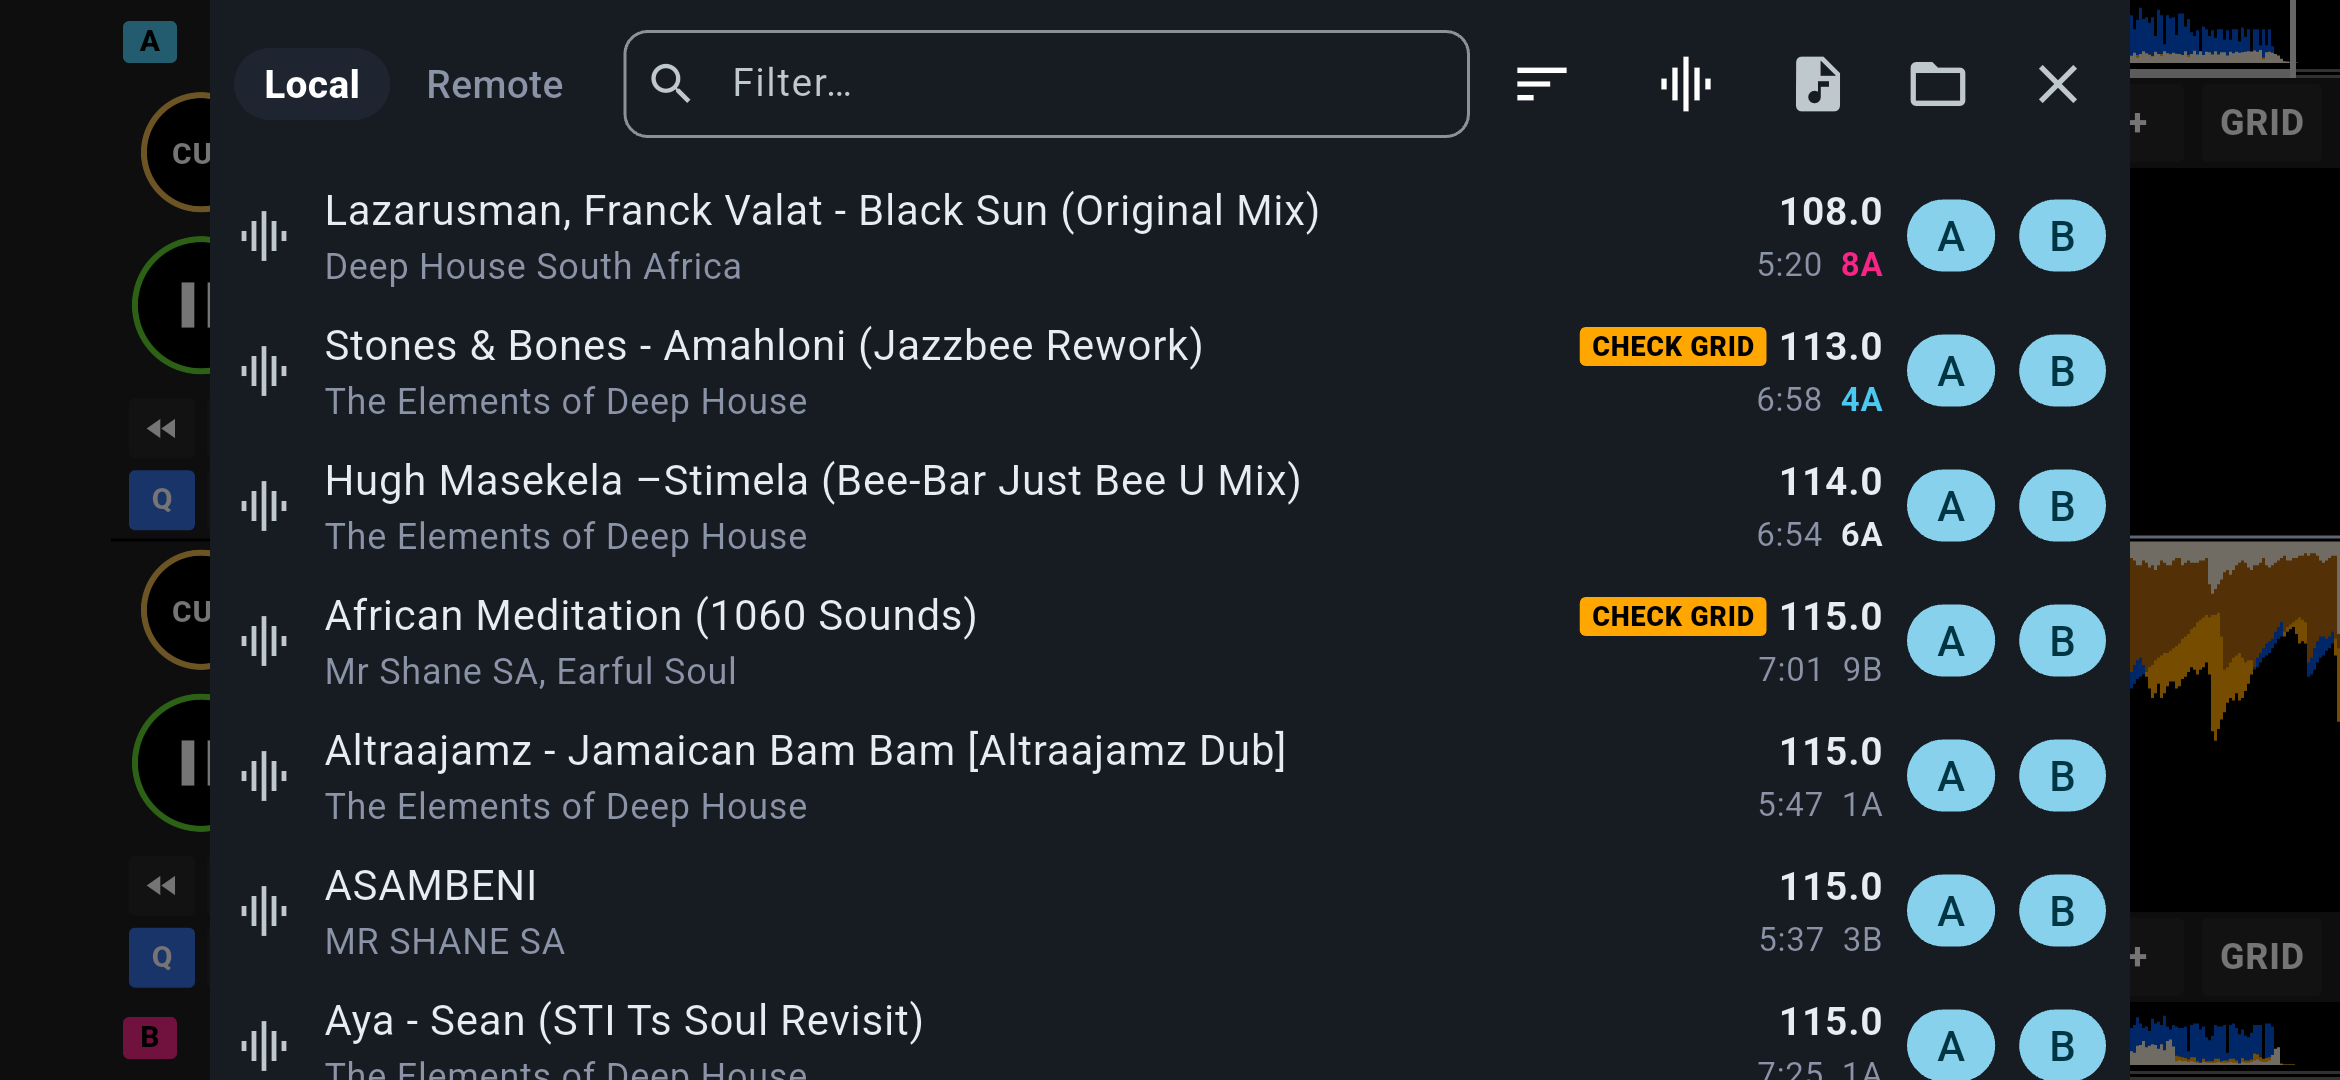
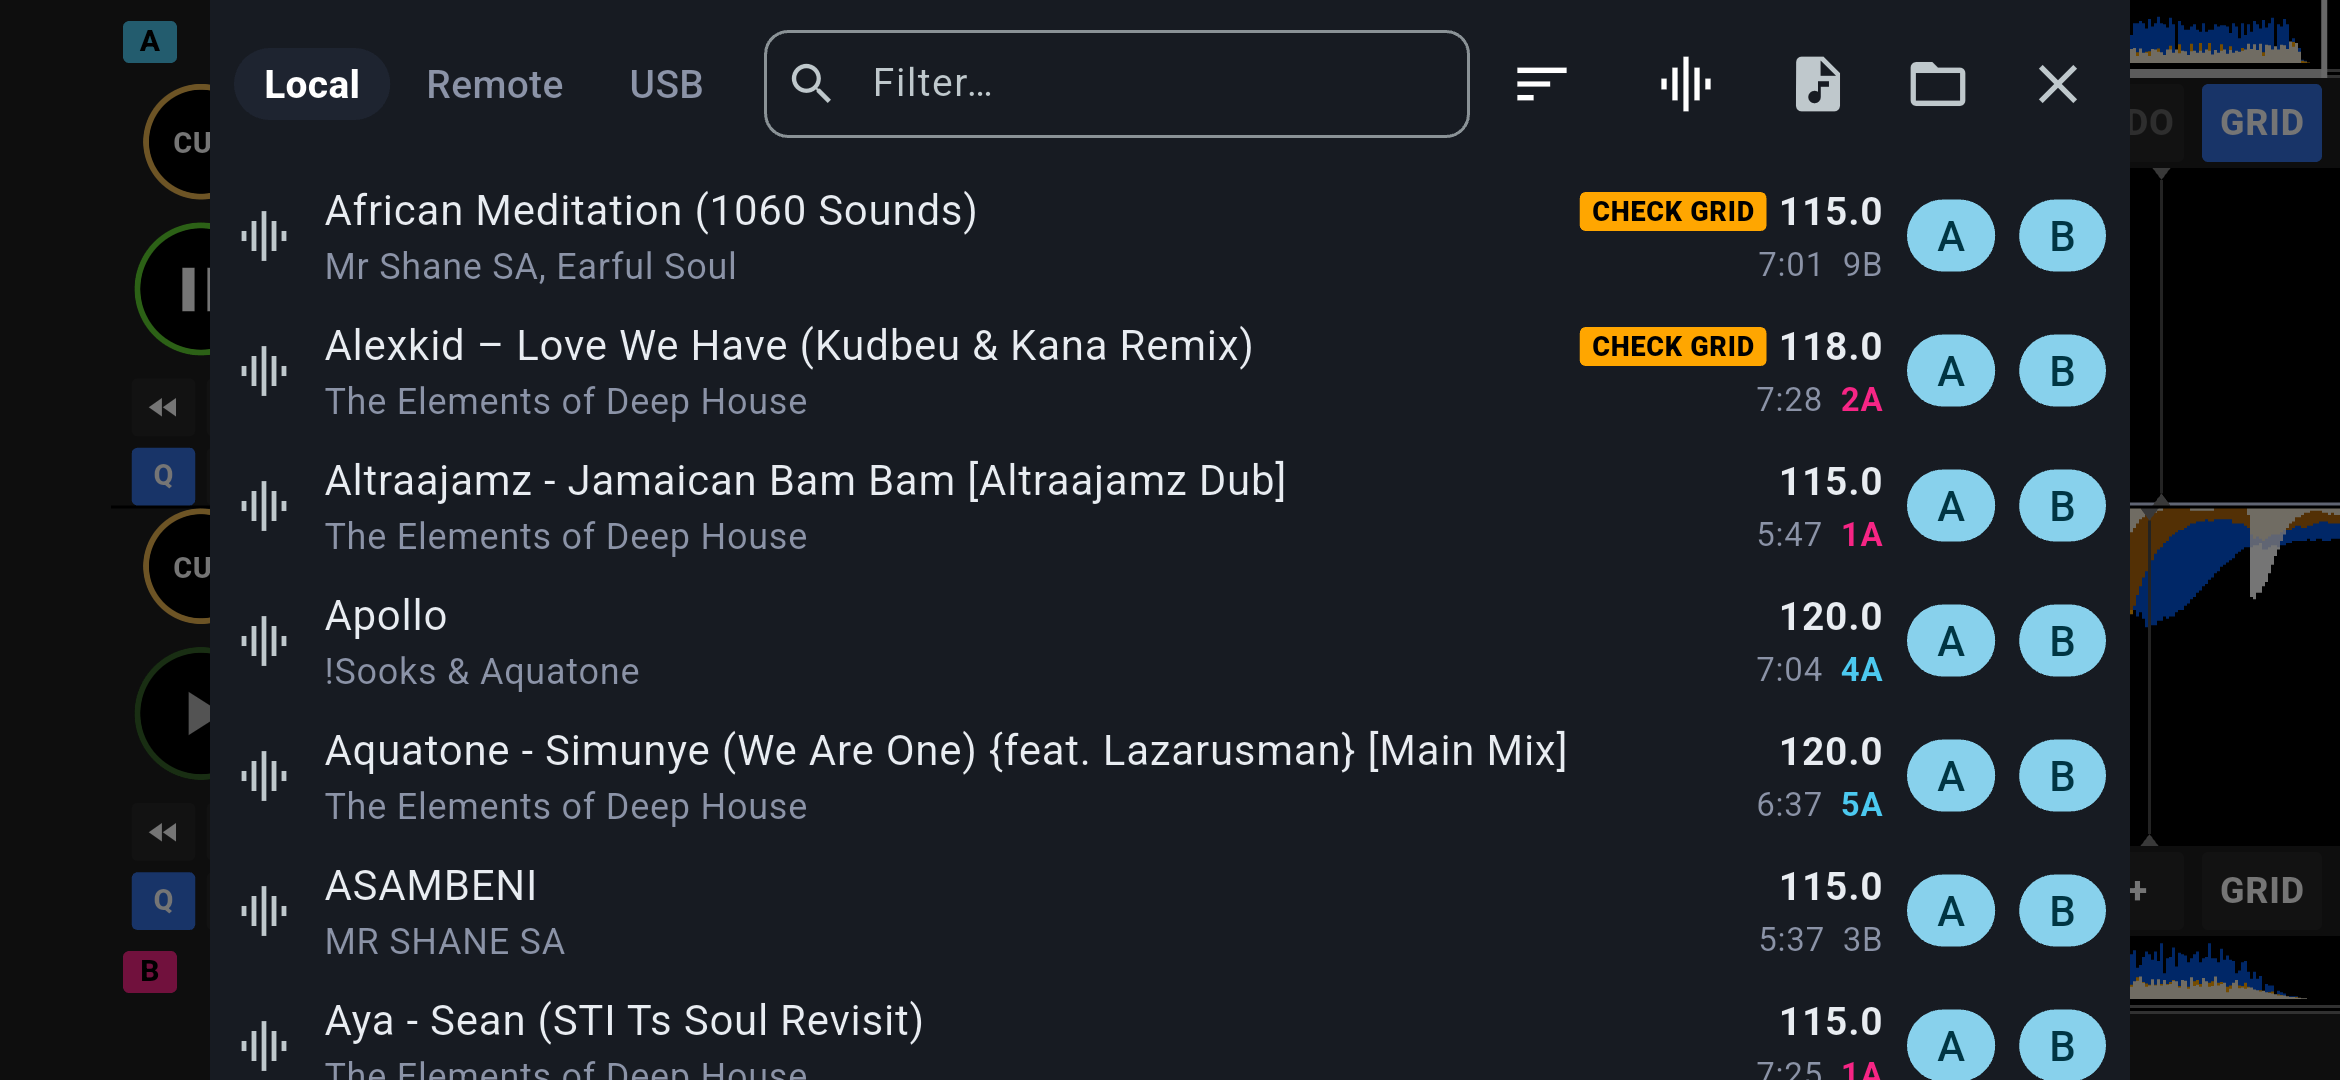
README: grid fix tools, mixer hide, rekordbox USB import; screenshots
Document GRID mode's tools (beat here, bar here, 5 ms, BPM edit, tap,
undo), hiding the internal mixer, and the rekordbox USB import (phase 1,
marked untested on a real stick). Add screenshots of GRID mode with the
mixer hidden and of the USB tab, and refresh the library one (now with
the USB tab).

diff --git a/README.md b/README.md
@@ -33,7 +33,11 @@ USB out to an external mixer such as the Teenage Engineering EP-136 K.O. Sidekic
 
 ![The restyled internal mixer](screenshots/mixer.png)
 
-![The library: Camelot keys (compatible ones coloured), the "check grid" warning, and the filter box](screenshots/library.png)
+![GRID mode on deck A (beat here, bar here, 5 ms, BPM, tap, undo) with the internal mixer hidden](screenshots/grid.png)
+
+![The library: Local, Remote and USB tabs, Camelot keys (compatible ones coloured), the "check grid" warning, and the filter box](screenshots/library.png)
+
+![The USB tab, for importing a rekordbox stick](screenshots/usb.png)
 
 ## What this fork adds
 
@@ -43,11 +47,11 @@ USB out to an external mixer such as the Teenage Engineering EP-136 K.O. Sidekic
 | Waveforms | rbxport-style 3-band waveforms, mirrored at a shared centre line; pinch zoom; smooth motion |
 | Deck controls | New control row and transport rail, CUE, hot cues A–D, quantize, beat jump, on-wave nudge |
 | Navigation | Drag the waveform to scrub; bar / phrase counter |
-| Mixer | Restyled faders with a centre notch and blue offset fill |
+| Mixer | Restyled faders with a centre notch and blue offset fill; hide it to give the decks the screen |
 | Sync | Beat sync: SYNC matches tempo *and* snaps into beat phase |
 | Cues | Cue and hot cues saved per track and restored on load |
-| Beat grid | Whole-track analysis, kick-attack grid fit, checked BPM rounding, drift correction, "check grid" warning, hand-fixed grids protected |
-| Library | Key display setting (Camelot / musical / both); search filter fix |
+| Beat grid | Whole-track analysis, kick-attack grid fit, checked BPM rounding, drift correction, "check grid" warning, hand-fixed grids protected; grid fix tools (beat here, bar here, BPM edit, tap tempo, undo) |
+| Library | Key display setting (Camelot / musical / both); search filter fix; rekordbox USB import (untested on a real stick) |
 
 Details of each are below.
 
@@ -121,6 +125,11 @@ notch, and a blue fill from the centre so any EQ, filter or crossfader move away
 from flat is visible. In external mixer mode the strip is hidden and the decks
 use the whole screen.
 
+The **▼** above the crossfader hides the internal mixer too, so the decks get
+the whole screen; a slim **▲ MIXER** strip at the bottom brings it back. EQ,
+filter and crossfader keep their settings while hidden, and the choice is
+remembered.
+
 ### Sync
 
 SYNC matches the synced deck's tempo to the other deck and keeps following it.
@@ -157,6 +166,46 @@ Studied from [Mixxx](https://github.com/mixxxdj/mixxx),
 Grids analyzed by an older build keep their old values until re-analyzed
 ("Re-analyze all" in the library).
 
+### Fixing a grid by hand (GRID mode)
+
+Tap **GRID** on a deck. The wave still scrubs and zooms, so put a kick under
+the playhead first:
+
+| Button | What it does |
+|---|---|
+| BEAT HERE | The beat line nearest the playhead moves onto it |
+| BAR HERE | The playhead becomes bar 1, beat 1 |
+| ‹ › 5 MS | Shift the whole grid (hold to repeat) |
+| − / + .01 | BPM down / up by 0.01 (hold to repeat) |
+| ½ / ×2 BPM | Analysis caught half or double the real tempo |
+| TAP | Tap along; from the 4th tap the BPM follows your average |
+| UNDO | Step back through grid edits (up to 32) |
+
+Tempo changes stretch the grid about the beat under the playhead, so a drifting
+grid can be fixed by lining up one kick and adjusting the BPM until a later
+kick lines up too. Every edit is saved, marks the track as hand-fixed and
+clears "check grid"; a synced deck re-matches its tempo.
+
+### rekordbox USB import (phase 1, untested on a real stick)
+
+The library's **USB** tab imports a stick exported from rekordbox: tap the USB
+icon and pick the stick's root (the folder holding `PIONEER` and `Contents`),
+connected through a USB-C hub alongside the mixer if needed.
+
+- Tracks, playlists (folders shown as `Folder / Playlist`), keys, beat grids and
+  cues come in. The readers for `export.pdb` and the ANLZ analysis files are
+  ported from rbxport.
+- Grids prepared in rekordbox take precedence over SideDeck's analysis. A grid
+  with tempo changes or a restarting bar count uses its opening section and
+  shows "check grid" (following them exactly needs variable grids, planned).
+- The earliest memory cue becomes CUE; hot cues A–D fill the pads, unless the
+  track already has cues in SideDeck.
+- Audio plays from the stick where Android allows it, otherwise from a cached
+  copy; the imported grids and cues stay after unplugging.
+
+Not yet covered: encrypted "OneLibrary-only" sticks, hot cues E–H, hot loops,
+cue colours and comments. It has only been tested on synthetic files so far.
+
 ### Library and settings
 
 - **Key display** (Settings): Camelot `10A` (default), musical `Bm`, or both.
@@ -178,7 +227,9 @@ Grids analyzed by an older build keep their old values until re-analyzed
 | A B C D | Control row | Hot cues: tap set or jump, long-press clear |
 | ½ · LOOP · ×2 | Control row | Halve, toggle, double the loop |
 | − · SYNC · + | Control row | BPM ±0.1, beat sync |
-| GRID | Control row | Shift the grid by a beat or 5 ms |
+| GRID | Control row | Grid fix tools: beat here, bar here, 5 ms, BPM, tap, undo |
+| ▼ / ▲ MIXER | Above the crossfader / bottom strip | Hide / show the internal mixer |
+| USB tab | Library | Import a rekordbox stick |
 
 ## Requirements
 
@@ -225,7 +276,8 @@ engine is compiled by CMake during the Xcode build.
 - Beat detector: Queen Mary TempoTrackV2 + Mixxx BeatUtils, refined on kick attacks and checked for drift; key: Queen Mary GetKeyMode
 - Beat sync, loops (½ / ×2), BPM ±0.1, nudge, quantize, beat jump
 - CUE and hot cues A–D, saved per track; waveform scrubbing; pinch zoom
-- GRID edits the beatgrid (1 beat or 5 ms); "check grid" warning
+- GRID mode fixes the beatgrid (beat here, bar here, BPM edit, tap tempo, undo); "check grid" warning
+- rekordbox USB import (tracks, playlists, grids, cues) - untested on a real stick
 - Local folder/file picker; sort; analyze missing or all (iPhone: Files app / Finder sharing)
 - Library highlights keys compatible with a loaded deck
 - Subsonic browse and cache-to-file
